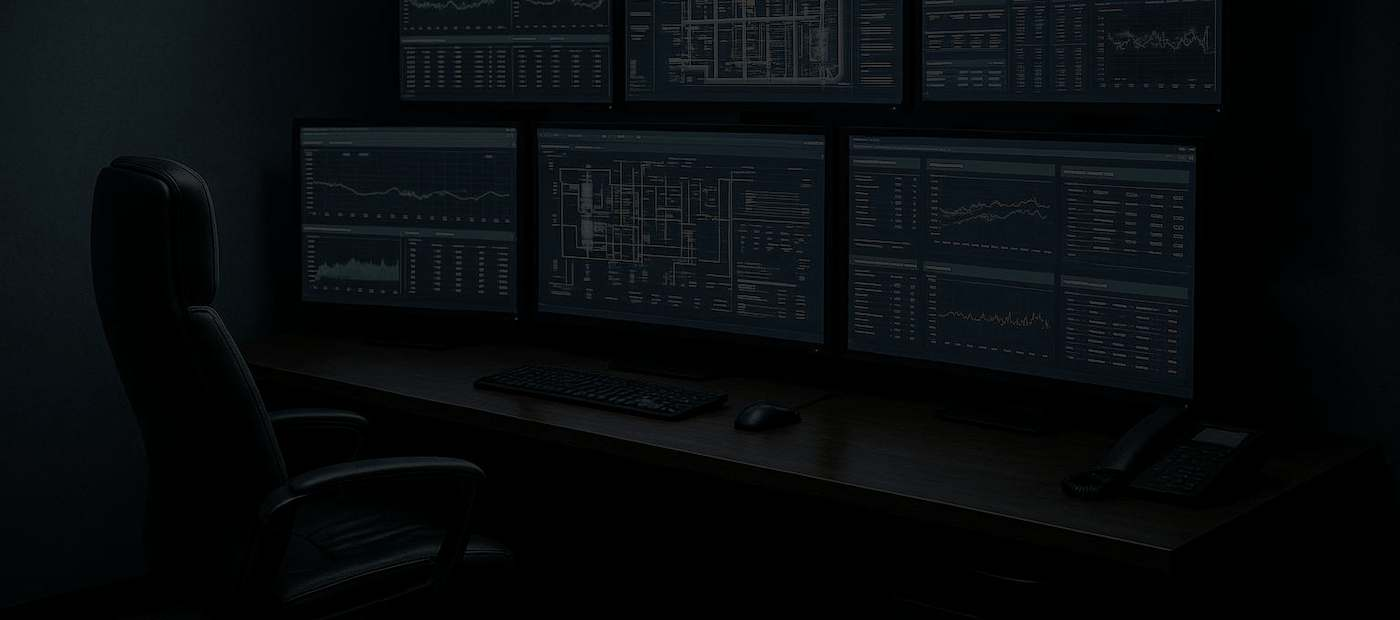
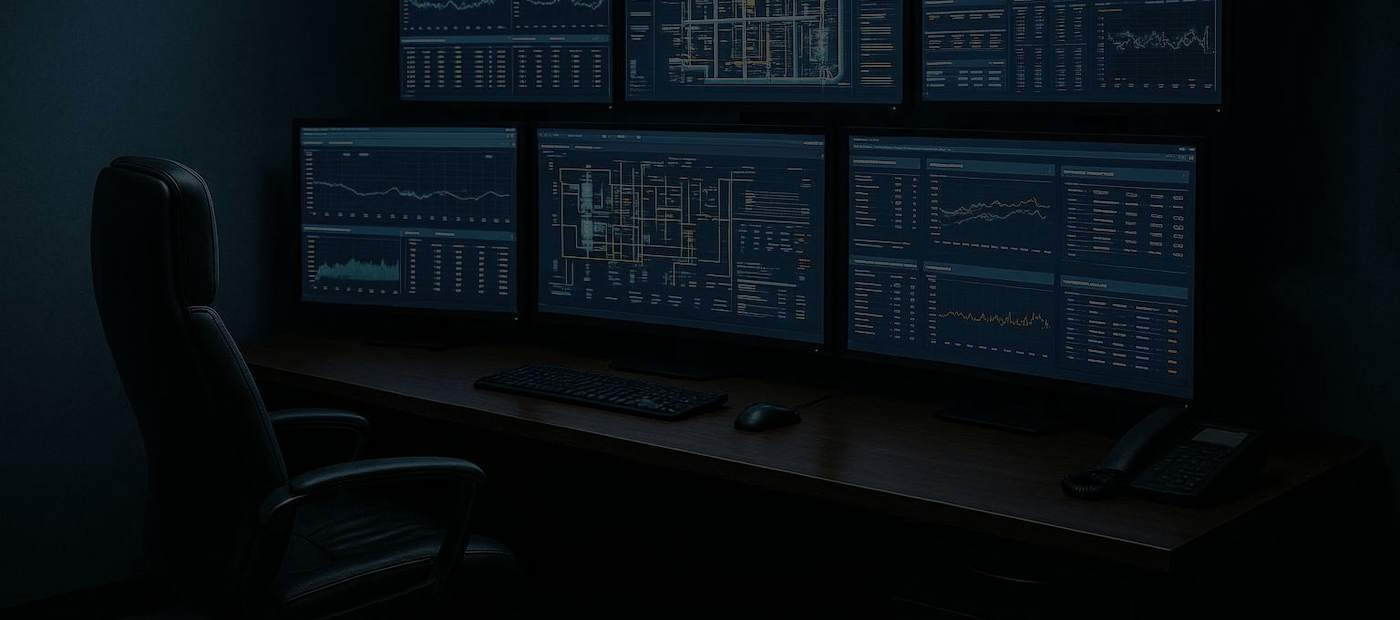
Take the maintenance imagery up to the brightness the files carry
The facility behind the heading column now ships unmodified. No darken,
no rolloff. The scrim over it is held flat at .94 across the whole text
block and then released to nothing, so the picture is untouched
everywhere below the last line of type. That is both brighter and safer
than the ramp it replaces, which had started lightening at 34% and was
letting the image up under the Request a meeting link: the heading
column measures 6.37 to 6.47:1 now against 5.26 before.

The four on the right cannot ship unmodified. I measured the rows: text
covers all but 6 to 17 per cent of each one, so there is nowhere for a
frame to sit beside the words. Straight from the file, the reveal has to
drop to 0.18 before the list copy clears AA, which leaves the picture
fainter than the version it replaced. Brightness there is bounded by the
text over it, not by the file.

So the ceiling went up instead of the artwork coming down. Each frame
now has its own ceiling rather than a shared one, which matters because
the wireframe carries far more lit area than the other three and was
dragging them a stop darker than they needed. Peak luminance roughly
doubled, 0.047 to between 0.082 and 0.115, and saturation went from 0.30
to 0.55 and 0.60. Reveal stays at 0.58.

All four land between 4.72 and 4.93:1 on body copy, each pushed to its
own limit rather than to a common one, and 13.2 to 13.8:1 on headings.

Verified: no bugs or warnings at eighteen widths, no horizontal scroll
[…]

diff --git a/index.html b/index.html
@@ -473,8 +473,8 @@ html.js .panel:not([hidden]){animation:pin .4s var(--ease-out) both}
   /* the scrim rides on the image so the heading never sits on bare sky */
   background:
     linear-gradient(to bottom,
-      rgba(5,5,6,.92) 0%, rgba(5,5,6,.90) 34%, rgba(5,5,6,.62) 52%,
-      rgba(5,5,6,.30) 72%, rgba(5,5,6,.18) 100%),
+      rgba(5,5,6,.94) 0%, rgba(5,5,6,.94) 48%, rgba(5,5,6,.18) 62%,
+      rgba(5,5,6,0) 78%, rgba(5,5,6,0) 100%),
     url("assets/ops-systems.jpg") 40% center / cover no-repeat;
   /* the reds in this frame are the brand accent, so it keeps its colour where
      the rest of the photography on the site is pulled to neutral */
@@ -1095,12 +1095,18 @@ html:not(.js) .rv{opacity:1;transform:none}
 </section>
 
 <!-- ============================ MAINTENANCE ============================ -->
-<!-- The five frames in this section are the client's own artwork, graded
-     into the palette at build time from the originals in assets. The four on
-     the right run through a highlight rolloff as well as a darken: a flat
-     brightness cut would have crushed the whole frame to control four
-     specular points, and those points were what pushed the list copy under
-     4.5:1. Every frame is capped at a pixel luminance of 0.047. -->
+<!-- The five frames are the client's own artwork. The facility behind the
+     heading column ships at the brightness it has in the file; the scrim over
+     it is held flat across the text block and then released entirely, so the
+     picture is unmodified everywhere below the last line of type.
+
+     The four on the right cannot do that, because their rows carry text edge
+     to edge: only 6 to 17 per cent of each row is clear of glyphs. They run
+     through a highlight rolloff instead of a flat darken, so the midtones keep
+     their brightness and only the specular points are held down, and each one
+     has its own ceiling rather than a shared one. The wireframe carries far
+     more lit area than the rest, so a shared ceiling was leaving the other
+     three a stop darker than they needed to be. -->
 <!-- Asymmetric split rather than a fourth run of equal columns. The heading
      column is sticky, so the reader keeps the section's subject while the four
      domains scroll past it, and the domains are free to take the height their
